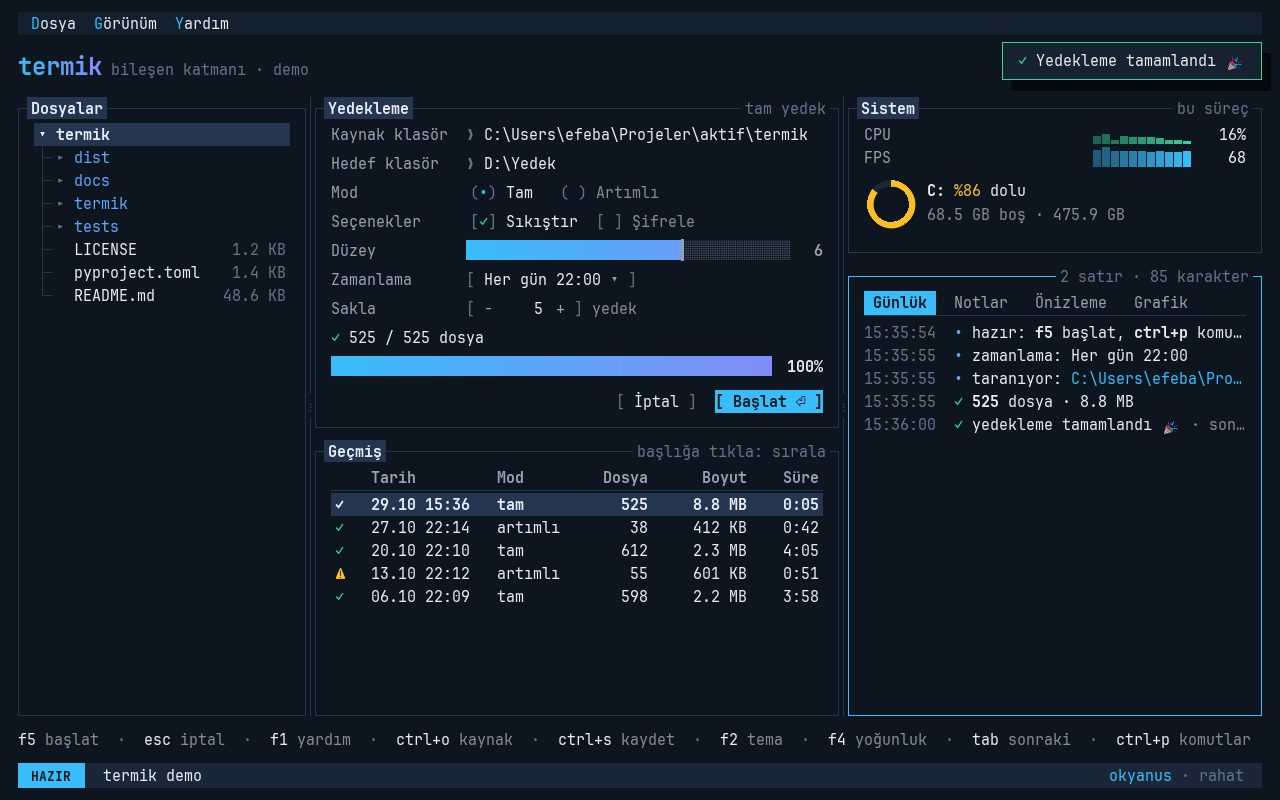
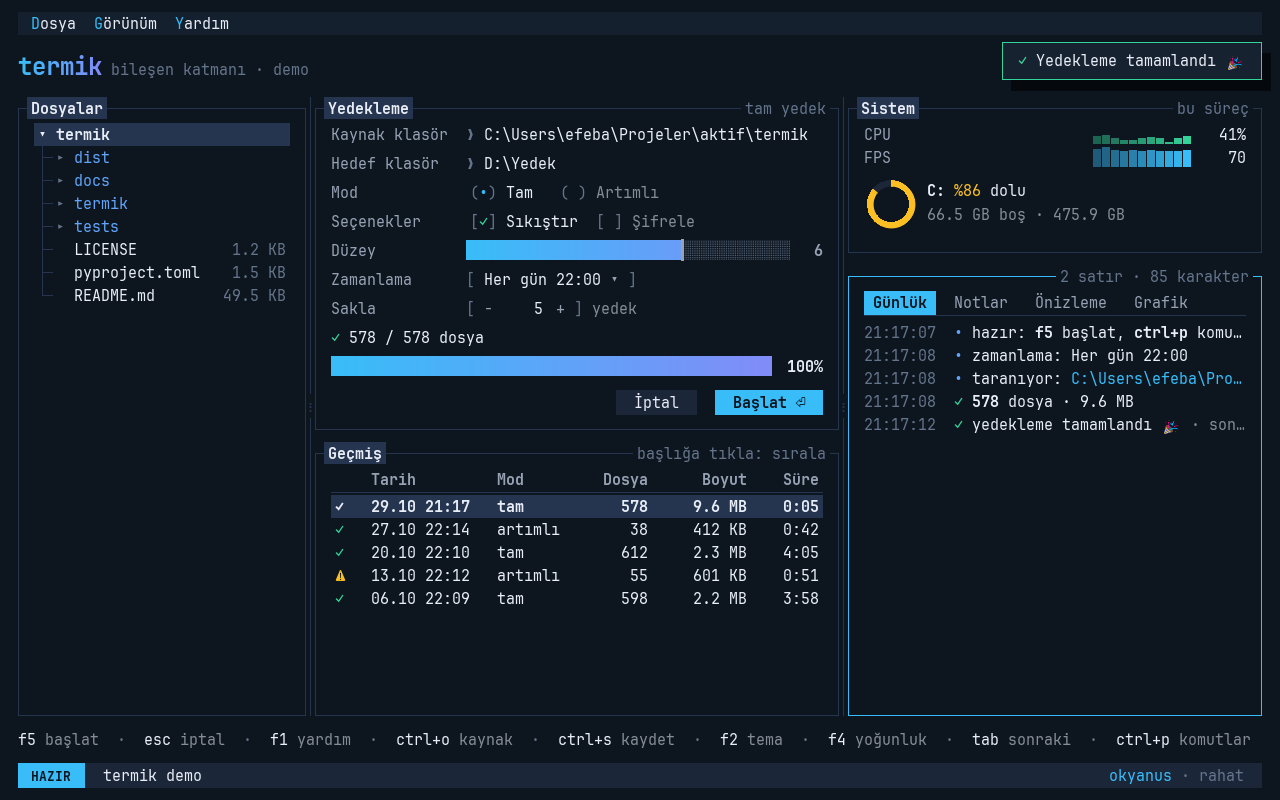
Butonlar yazıdan ayrılsın: varsayılan solid, yeni tinted ve boxed biçimleri
- button belirtecine tinted (zeminli köşeli) ve boxed (çerçeveli kutu) eklendi;
  devre dışı halleri de soluk.
- terminal görünümünde varsayılan bracket yerine solid: köşeli parantez açılır
  seçim, sayı alanı ve onay kutusunda da kullanıldığı için butonlar form
  alanlarıyla karışıyordu.
- Galeri, demo görüntüleri, README ve rehber güncellendi.

diff --git a/termik/draw.py b/termik/draw.py
@@ -22,7 +22,7 @@ from .theme import Color, Theme, mix
 SS = 4  # köşe sprite'ları için supersampling katsayısı
 RectLike = pygame.Rect | tuple[int, int, int, int]
 
-_BRACKETS = {"bracket": ("[ ", " ]"), "angle": ("< ", " >")}
+_BRACKETS = {"bracket": ("[ ", " ]"), "tinted": ("[ ", " ]"), "angle": ("< ", " >")}
 
 
 @lru_cache(maxsize=256)
@@ -308,19 +308,35 @@ class Painter:
         if th.button in _BRACKETS:
             a, b = _BRACKETS[th.button]
             return self.text.width(a + label + b, st), self.row
-        return self.text.width(label, st) + self.ch * 4, self.row + (6 if th.button == "pill" else 2)
+        return self.text.width(label, st) + self.ch * 4, self.row + (6 if th.button in ("pill", "boxed") else 2)
 
     def button(self, x: int, y: int, label: str, *, primary: bool = False, hot: bool = False,
                disabled: bool = False) -> pygame.Rect:
         """Buton çiz (theme.button), kapladığı alanı döndür. label düz yazıdır, markup değil.
 
         Köşeli/açılı butonlarda birincil buton hep ters renktedir (Enter'ın varsayılanı); ikincil
-        buton sade yazıdır ve üstüne gelince ters renge döner. disabled=True soluk çizer: vurgu
+        buton sade yazıdır ve üstüne gelince ters renge döner; tinted aynısını hafif bir zeminle çizer,
+        boxed ince çerçeveli kutu çizer. disabled=True soluk çizer: vurgu
         dolgusu ve üstüne gelme vurgusu olmaz, yazı ve çerçeve sönük renktedir.
         """
         th = self.theme
         w, h = self.button_size(label, primary)
         rect = pygame.Rect(x, y, w, h)
+        if th.button == "tinted":  # köşeli ama zeminli: yazıyla karışmasın
+            self.surface.fill(mix(th.bg, th.raised, 0.5 if disabled else 1.0), rect)
+        if th.button == "boxed":  # ince çerçeveli kutu
+            if disabled:
+                color, fg = mix(th.border, th.bg, 0.35), th.faint
+            elif primary:
+                color, fg = th.accent, th.accent
+            else:
+                color, fg = (th.text if hot else th.border), th.text
+            if hot and not disabled:
+                self.round_rect(rect, mix(th.bg, th.raised, 0.8))
+            self.outline(rect, color, width=2 if primary and not disabled else 1)
+            st = Style(bold=primary)
+            self.text.draw(self.surface, x + (w - self.text.width(label, st)) // 2, y, label, st, fg, center_in=h)
+            return rect
         if disabled:
             edge = mix(th.faint, th.bg, 0.45)
             if th.button in _BRACKETS:

diff --git a/termik/theme.py b/termik/theme.py
@@ -73,7 +73,7 @@ class Theme:
     panel_fill: bool = False    # paneller zeminden ayrı renkte mi (kart görünümü)
     title: str = "inverse"      # inverse ters renkli etiket · inline ┌─ Başlık ─┐ · tab ┤ Başlık ├
     focus: str = "color"        # color: odakta vurgu rengi · double: odakta çift çizgi
-    button: str = "bracket"     # bracket [ Tamam ] · angle < Tamam > · solid dolu blok · pill hap
+    button: str = "solid"       # bracket [ Tamam ] · tinted zeminli [ Tamam ] · angle < Tamam > · solid dolu blok · boxed çerçeveli kutu · pill hap
     bar: str = "block"          # block █▊░ · segment ▰▱ · line ━━─ · ascii [##--]
     selection: str = "inverse"  # inverse: tam satır ters renk · pointer: ❯ + hafif zemin
     shadow: str = "hard"        # hard: kaydırılmış koyu blok · soft: bulanık · none
@@ -144,7 +144,7 @@ THEMES: dict[str, Theme] = {t.name: t for t in (
 
 # Hazır biçim kümeleri: herhangi bir renk temasıyla birleştirilebilir
 LOOKS: dict[str, dict] = {
-    "terminal": dict(radius=0, panel_fill=False, title="inverse", focus="color", button="bracket",
+    "terminal": dict(radius=0, panel_fill=False, title="inverse", focus="color", button="solid",
                      bar="block", selection="inverse", shadow="hard", radio="paren",
                      tabs="inverse", slider="bar", select="bracket", image="smooth", spin="bracket",
                      split="line"),
@@ -167,7 +167,7 @@ DENSITIES: dict[str, dict] = {
 CHOICES: dict[str, tuple[str, ...]] = {
     "title": ("inverse", "inline", "tab"),
     "focus": ("color", "double"),
-    "button": ("bracket", "angle", "solid", "pill"),
+    "button": ("bracket", "tinted", "angle", "solid", "boxed", "pill"),
     "bar": ("block", "segment", "line", "ascii"),
     "selection": ("inverse", "pointer"),
     "shadow": ("hard", "soft", "none"),

diff --git a/README.md b/README.md
@@ -403,7 +403,7 @@ class Uygulama(ui.App):
 | Bileşen | İş |
 |---|---|
 | `Static`, `Label` | Markup yazı; `Static` genişliğe göre kaydırır, `Label` `…` ile kısalır |
-| `Button` | `[ Tamam ]`; ikinci argüman fonksiyon ya da eylem adı, `key=` kısayolu, `on_press=`, `variant="primary"`; Enter/Space/tık; `disabled=True` soluk çizilir (vurgu dolgusu yok) ve basılmaz |
+| `Button` | Dolu kutu (`button` belirteciyle `[ Tamam ]` ya da çerçeveli de olur); ikinci argüman fonksiyon ya da eylem adı, `key=` kısayolu, `on_press=`, `variant="primary"`; Enter/Space/tık; `disabled=True` soluk çizilir (vurgu dolgusu yok) ve basılmaz |
 | `Input` | Tek satır yazı: blok imleç, seçim, pano, kelime kelime gezinme; `label=` ile etiketli alan |
 | `TextArea` | Çok satırlı yazı: kelime sınırından kaydırma, seçim, pano, geri al/yinele, girinti koruma, satır numaraları, yazdıkça uzama (`max_rows`), gönderme tuşu (`submit_key="ctrl+enter"`) |
 | `Checkbox`, `RadioSet` | `[✓]` ve `(•)`; tık, Space, ←/→ |
@@ -521,7 +521,7 @@ tercihlerinden gelir (aşağıda **Ayarlar**).
 | `pad_x`, `pad_y` | panel iç boşluğu: karakter / satır cinsinden | `1.75`, `0.65` |
 | `title` | `inverse` ters renkli etiket · `inline` `┌─ Başlık ─┐` · `tab` `┤ Başlık ├` | `inverse` |
 | `focus` | `color` vurgu rengi · `double` odakta çift çizgi | `color` |
-| `button` | `bracket` `[ Tamam ]` · `angle` `< Tamam >` · `solid` dolu blok · `pill` hap | `bracket` |
+| `button` | `solid` dolu kutu · `tinted` zeminli `[ Tamam ]` · `bracket` `[ Tamam ]` · `boxed` çerçeveli kutu · `angle` `< Tamam >` · `pill` hap | `solid` (modern: `pill`) |
 | `bar` | `block` `█▊░` · `segment` `▰▱` · `line` `━` · `ascii` `[##--]` | `block` |
 | `selection` | `inverse` tam satır ters renk · `pointer` `❯` + hafif zemin | `inverse` |
 | `radio` | `paren` `(•)` · `dot` `●` | `paren` |

diff --git a/docs/rehber.md b/docs/rehber.md
@@ -844,7 +844,7 @@ olmayan bir dosyayı gösterebilir; durum kaydı `run_test` altında yalnızca a
 Görünüş üç bağımsız eksende seçilir:
 
 1. **Renk teması** (`theme`): `okyanus` (varsayılan), `günbatımı`, `orman`, `neon`, `mono`, `lavanta`.
-2. **Görünüm kümesi** (`look`): `terminal` (keskin köşe, köşeli butonlar) ya da `modern` (yuvarlak,
+2. **Görünüm kümesi** (`look`): `terminal` (keskin köşe, dolu kutu butonlar) ya da `modern` (yuvarlak,
    kart zeminli).
 3. **Yoğunluk** (`density`): `sıkı`, `dengeli`, `rahat` (varsayılan), `ferah`.
 
@@ -854,7 +854,7 @@ Bunların üstüne tek tek **biçim belirteçleri** ezilebilir:
 |---|---|
 | `title` | `inverse` · `inline` · `tab` |
 | `focus` | `color` · `double` |
-| `button` | `bracket` · `angle` · `solid` · `pill` |
+| `button` | `solid` (varsayılan; butonlar yazıdan ve köşeli form alanlarından ayrılsın diye) · `tinted` · `bracket` · `boxed` · `angle` · `pill` |
 | `bar` | `block` · `segment` · `line` · `ascii` |
 | `selection` | `inverse` · `pointer` |
 | `shadow` | `hard` · `soft` · `none` |
